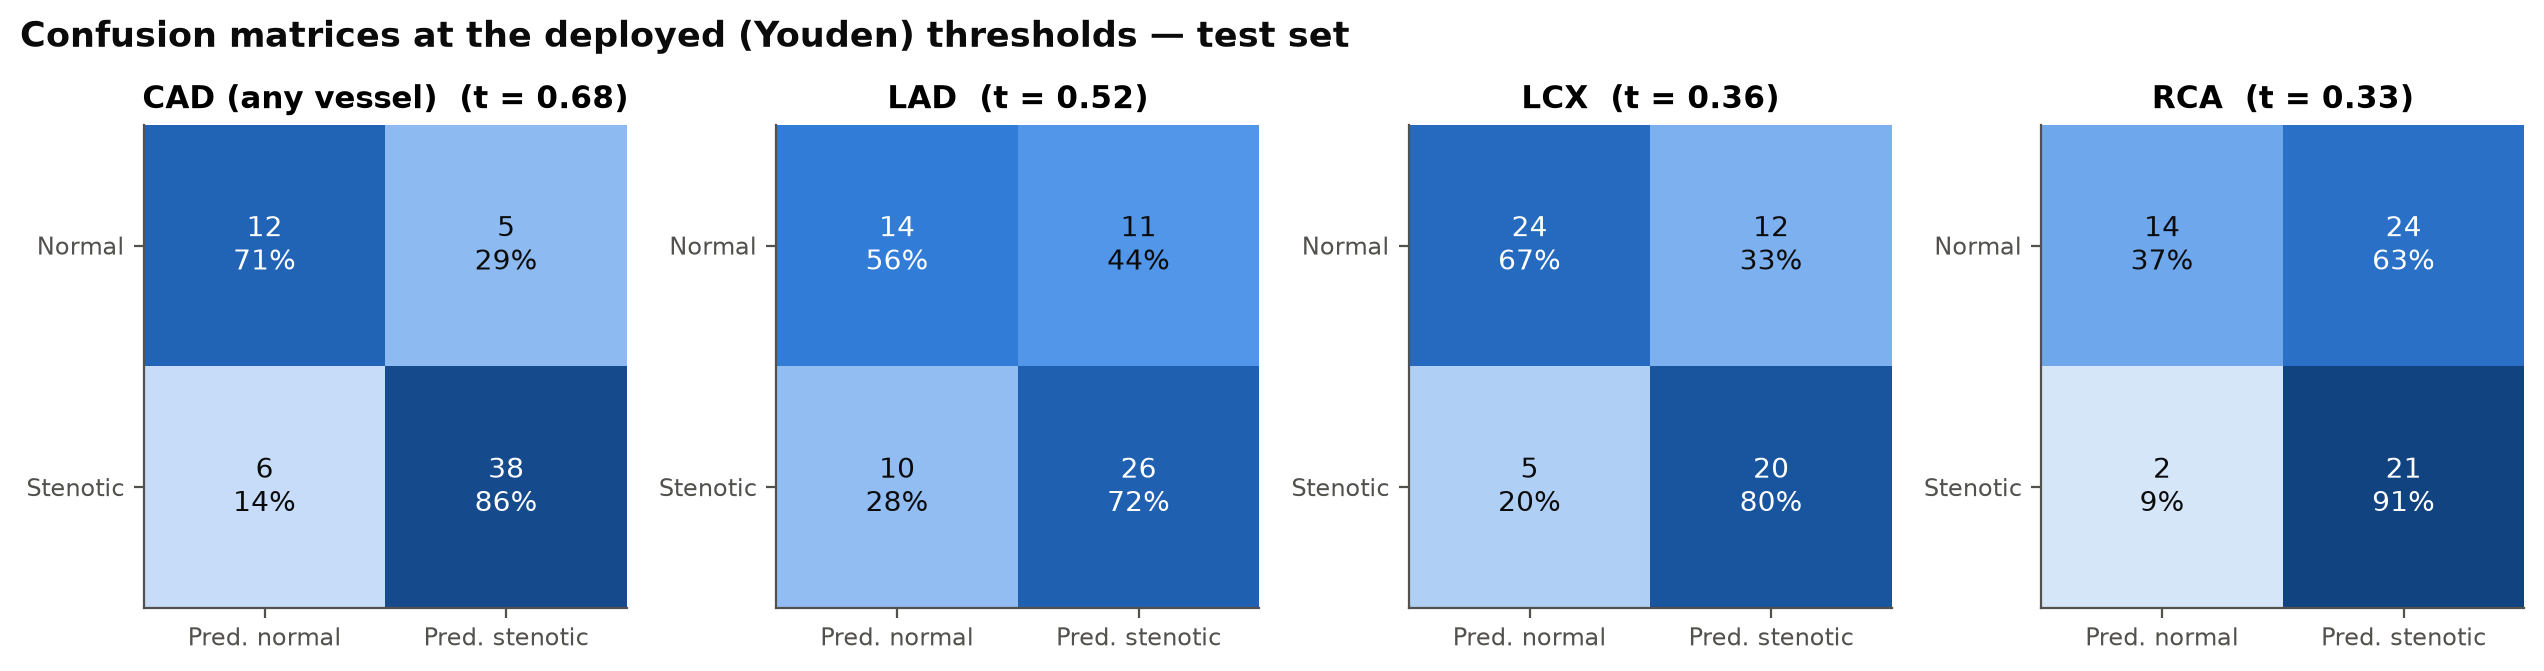
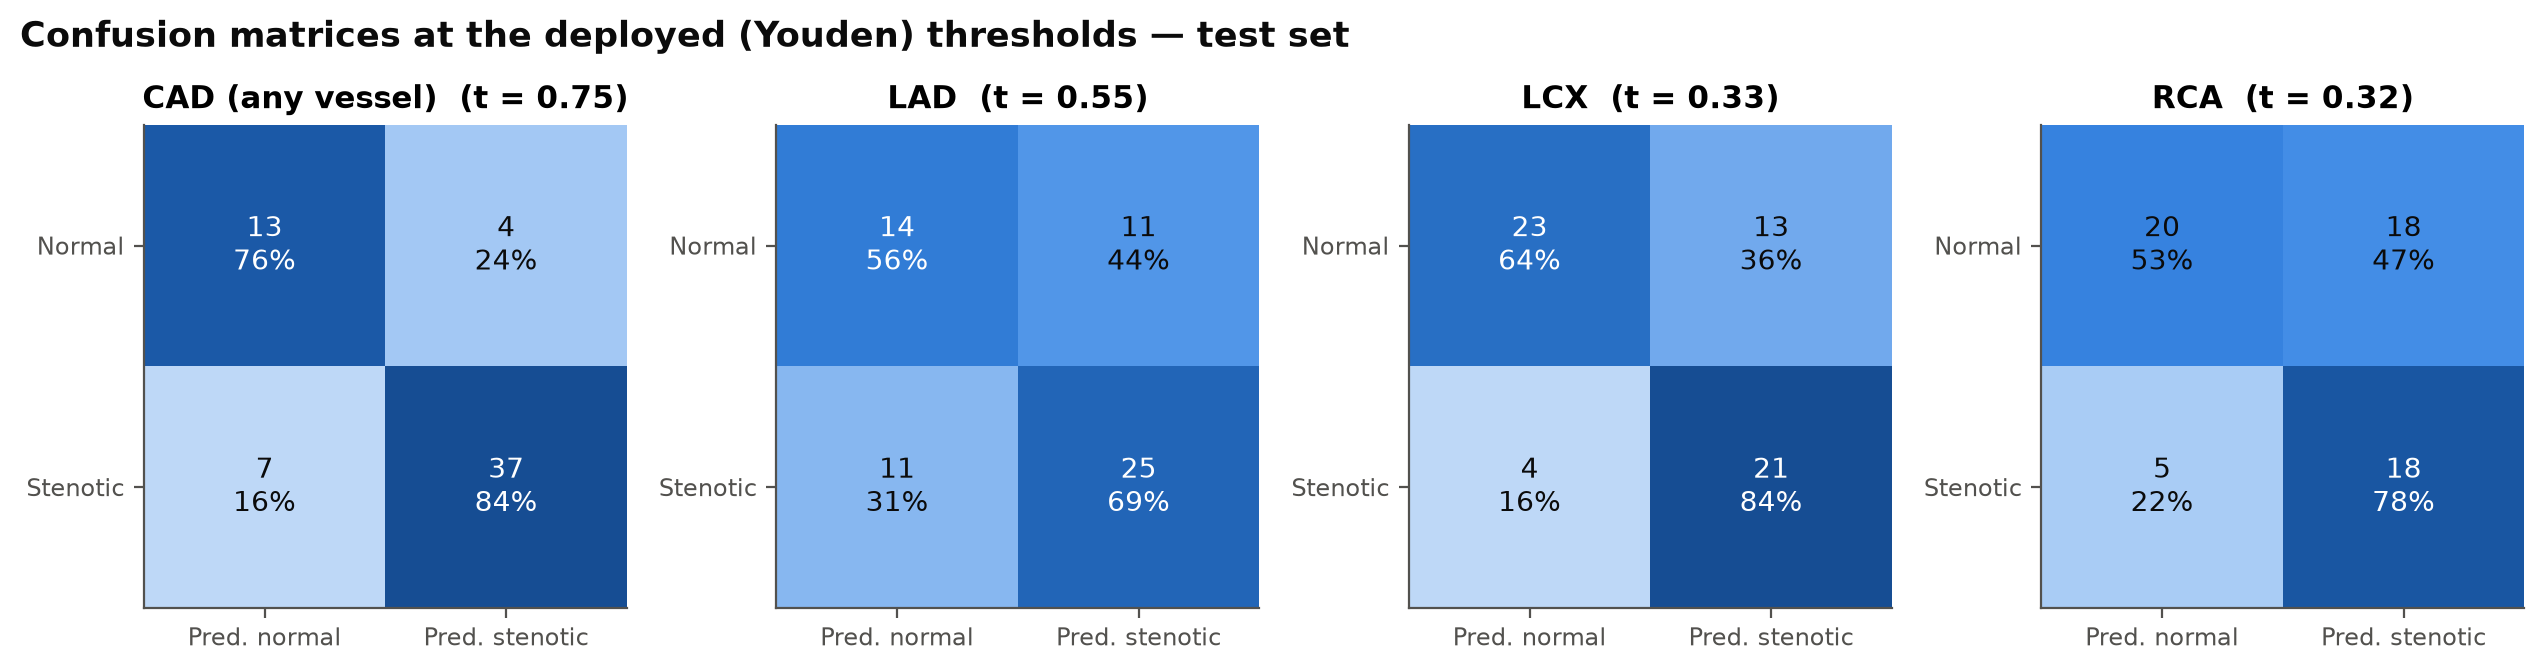
docs(ml): regenerate figures and results table for the v1.1.0 models

diff --git a/ml/reports/results.md b/ml/reports/results.md
@@ -1,24 +1,37 @@
 # CardioTwin — model results
 
-Dataset: Extension of Z-Alizadeh Sani (n = 303; development 242, locked test 61). Test metrics are point estimates with 95% stratified-bootstrap CIs (2000 resamples) at the deployed threshold (Youden's J on out-of-fold development predictions). CV = development-set repeated stratified 5-fold × 10 (mean ± sd over folds).
+Dataset: Extension of Z-Alizadeh Sani (n = 303; development 242, locked test 61). Test metrics are point estimates with 95% stratified-bootstrap CIs (2000 resamples) at the deployed threshold (Youden's J on out-of-fold development predictions). CV = development-set repeated stratified 5-fold × 10 with nested tuning (mean ± sd over folds).
 
 ## Held-out test set (deployed LR + XGBoost ensemble)
 
 | Target | ROC-AUC | PR-AUC | F1 | Sensitivity | Specificity | Accuracy | Balanced acc. | MCC | Brier |
 | --- | --- | --- | --- | --- | --- | --- | --- | --- | --- |
-| CAD | 0.858 (0.741–0.955) | 0.937 (0.883–0.984) | 0.874 (0.800–0.933) | 0.864 (0.750–0.955) | 0.706 (0.471–0.884) | 0.820 (0.721–0.902) | 0.785 (0.669–0.907) | 0.560 (0.345–0.781) | 0.126 (0.078–0.177) |
-| LAD | 0.742 (0.611–0.858) | 0.823 (0.738–0.902) | 0.712 (0.600–0.811) | 0.722 (0.583–0.861) | 0.560 (0.360–0.760) | 0.656 (0.541–0.770) | 0.641 (0.519–0.763) | 0.284 (0.039–0.526) | 0.214 (0.151–0.280) |
-| LCX | 0.808 (0.683–0.909) | 0.753 (0.618–0.892) | 0.702 (0.586–0.807) | 0.800 (0.640–0.920) | 0.667 (0.500–0.806) | 0.721 (0.607–0.836) | 0.733 (0.619–0.835) | 0.460 (0.246–0.667) | 0.182 (0.144–0.225) |
-| RCA | 0.735 (0.593–0.851) | 0.689 (0.546–0.819) | 0.618 (0.537–0.689) | 0.913 (0.783–1.000) | 0.368 (0.211–0.526) | 0.574 (0.475–0.673) | 0.641 (0.544–0.733) | 0.310 (0.103–0.484) | 0.211 (0.196–0.226) |
+| CAD | 0.858 (0.743–0.955) | 0.937 (0.884–0.983) | 0.871 (0.791–0.940) | 0.841 (0.727–0.932) | 0.765 (0.588–0.941) | 0.820 (0.721–0.918) | 0.803 (0.687–0.914) | 0.578 (0.371–0.793) | 0.123 (0.068–0.182) |
+| LAD | 0.742 (0.612–0.858) | 0.824 (0.738–0.901) | 0.694 (0.580–0.800) | 0.694 (0.556–0.833) | 0.560 (0.360–0.760) | 0.639 (0.525–0.754) | 0.627 (0.504–0.753) | 0.254 (0.008–0.514) | 0.217 (0.150–0.288) |
+| LCX | 0.814 (0.701–0.907) | 0.761 (0.634–0.888) | 0.712 (0.600–0.808) | 0.840 (0.680–0.960) | 0.639 (0.472–0.778) | 0.721 (0.607–0.820) | 0.739 (0.626–0.837) | 0.474 (0.247–0.671) | 0.177 (0.142–0.215) |
+| RCA | 0.759 (0.627–0.866) | 0.702 (0.560–0.833) | 0.610 (0.491–0.714) | 0.783 (0.609–0.913) | 0.526 (0.368–0.684) | 0.623 (0.508–0.738) | 0.654 (0.537–0.764) | 0.304 (0.073–0.513) | 0.183 (0.150–0.221) |
 
-## Development-set cross-validation (same ensemble, out-of-fold)
+## Calibration on the held-out test set
+
+Calibration slope/intercept: logistic recalibration of the test outcomes on the predicted log-odds (ideal 1 / 0); ECE over quantile bins of ~10 patients.
+
+| Target | Brier | Log-loss | Calibration slope | Calibration intercept | Calibration-in-the-large | ECE |
+| --- | --- | --- | --- | --- | --- | --- |
+| CAD | 0.123 (0.068–0.182) | 0.428 (0.236–0.635) | 0.62 | +0.07 | -0.016 | 0.079 |
+| LAD | 0.217 (0.150–0.288) | 0.653 (0.464–0.854) | 0.47 | +0.13 | -0.001 | 0.133 |
+| LCX | 0.177 (0.142–0.215) | 0.529 (0.453–0.612) | 1.47 | +0.26 | +0.018 | 0.116 |
+| RCA | 0.183 (0.150–0.221) | 0.540 (0.464–0.624) | 1.30 | +0.15 | +0.003 | 0.055 |
+
+## Development-set cross-validation (ensemble recipe, cross-fitted)
+
+For every outer fold the logistic variant, ensemble weight, Platt calibration and threshold are re-chosen on the other folds of that repeat only, so the scored fold never influences a choice (no selection optimism).
 
 | Target | ROC-AUC | PR-AUC | F1 | Sensitivity | Specificity | Accuracy | Brier |
 | --- | --- | --- | --- | --- | --- | --- | --- |
-| CAD | 0.942 ± 0.034 | 0.975 ± 0.017 | 0.920 ± 0.036 | 0.893 ± 0.053 | 0.883 ± 0.077 | 0.890 ± 0.047 | 0.085 ± 0.029 |
-| LAD | 0.872 ± 0.055 | 0.904 ± 0.046 | 0.833 ± 0.047 | 0.840 ± 0.065 | 0.755 ± 0.097 | 0.804 ± 0.055 | 0.143 ± 0.031 |
-| LCX | 0.743 ± 0.052 | 0.620 ± 0.074 | 0.641 ± 0.055 | 0.772 ± 0.091 | 0.596 ± 0.088 | 0.664 ± 0.054 | 0.202 ± 0.017 |
-| RCA | 0.738 ± 0.064 | 0.612 ± 0.079 | 0.632 ± 0.060 | 0.806 ± 0.102 | 0.554 ± 0.096 | 0.648 ± 0.061 | 0.204 ± 0.020 |
+| CAD | 0.937 ± 0.034 | 0.972 ± 0.018 | 0.900 ± 0.047 | 0.860 ± 0.072 | 0.881 ± 0.095 | 0.866 ± 0.057 | 0.091 ± 0.028 |
+| LAD | 0.867 ± 0.057 | 0.899 ± 0.050 | 0.824 ± 0.054 | 0.835 ± 0.088 | 0.736 ± 0.131 | 0.794 ± 0.061 | 0.150 ± 0.034 |
+| LCX | 0.738 ± 0.053 | 0.609 ± 0.076 | 0.628 ± 0.056 | 0.755 ± 0.128 | 0.591 ± 0.128 | 0.655 ± 0.056 | 0.205 ± 0.017 |
+| RCA | 0.727 ± 0.071 | 0.601 ± 0.087 | 0.605 ± 0.086 | 0.757 ± 0.156 | 0.565 ± 0.113 | 0.637 ± 0.063 | 0.210 ± 0.029 |
 
 ## What the full panel adds over a clinical baseline (test set)
 
@@ -26,10 +39,10 @@ Baseline = logistic regression on age, sex, typical angina, diabetes and hyperte
 
 | Target | Full model ROC-AUC | Baseline ROC-AUC | Δ ROC-AUC (paired bootstrap 95% CI) |
 | --- | --- | --- | --- |
-| CAD | 0.858 (0.741–0.955) | 0.823 (0.691–0.941) | +0.035 (-0.023 to +0.100) |
-| LAD | 0.742 (0.611–0.858) | 0.736 (0.597–0.862) | +0.006 (-0.077 to +0.092) |
-| LCX | 0.808 (0.683–0.909) | 0.805 (0.693–0.903) | +0.003 (-0.074 to +0.074) |
-| RCA | 0.735 (0.593–0.851) | 0.746 (0.612–0.860) | -0.011 (-0.122 to +0.096) |
+| CAD | 0.858 (0.743–0.955) | 0.822 (0.688–0.943) | +0.037 (-0.023 to +0.100) |
+| LAD | 0.742 (0.612–0.858) | 0.743 (0.608–0.866) | -0.001 (-0.082 to +0.087) |
+| LCX | 0.814 (0.701–0.907) | 0.805 (0.693–0.903) | +0.009 (-0.043 to +0.057) |
+| RCA | 0.759 (0.627–0.866) | 0.744 (0.606–0.858) | +0.015 (-0.023 to +0.054) |
 
 ## Cross-validation leaderboard (top 5 by ROC-AUC per target)
 
@@ -37,50 +50,55 @@ Baseline = logistic regression on age, sex, typical angina, diabetes and hyperte
 
 | Rank | Model | CV ROC-AUC | CV F1 @ 0.5 | CV Brier |
 | --- | --- | --- | --- | --- |
-| 1 | LR (lr_l2) + XGBoost margin ensemble, Platt-calibrated | 0.942 ± 0.034 | 0.917 | 0.085 |
-| 2 | Random forest | 0.937 ± 0.037 | 0.914 | 0.107 |
-| 3 | Logistic regression (L2) | 0.935 ± 0.034 | 0.881 | 0.121 |
-| 4 | Extra trees | 0.935 ± 0.039 | 0.919 | 0.097 |
-| 5 | XGBoost | 0.931 ± 0.037 | 0.907 | 0.095 |
+| 1 | Random forest | 0.937 ± 0.037 | 0.914 | 0.107 |
+| 2 | LR (lr_elasticnet) + XGBoost margin ensemble, Platt-calibrated | 0.937 ± 0.034 | 0.913 | 0.091 |
+| 3 | Extra trees | 0.935 ± 0.039 | 0.919 | 0.097 |
+| 4 | XGBoost | 0.929 ± 0.036 | 0.910 | 0.095 |
+| 5 | Logistic regression (elastic net) | 0.929 ± 0.037 | 0.908 | 0.096 |
 
 **LAD**
 
 | Rank | Model | CV ROC-AUC | CV F1 @ 0.5 | CV Brier |
 | --- | --- | --- | --- | --- |
-| 1 | LR (lr_l1) + XGBoost margin ensemble, Platt-calibrated | 0.872 ± 0.055 | 0.835 | 0.143 |
+| 1 | LR (lr_l1) + XGBoost margin ensemble, Platt-calibrated | 0.867 ± 0.057 | 0.829 | 0.150 |
 | 2 | Random forest | 0.866 ± 0.053 | 0.830 | 0.158 |
-| 3 | XGBoost | 0.865 ± 0.058 | 0.842 | 0.147 |
-| 4 | Logistic regression (L1) | 0.860 ± 0.055 | 0.812 | 0.154 |
-| 5 | Logistic regression (elastic net) | 0.856 ± 0.061 | 0.813 | 0.163 |
+| 3 | XGBoost | 0.863 ± 0.059 | 0.838 | 0.148 |
+| 4 | Logistic regression (L1) | 0.857 ± 0.057 | 0.811 | 0.156 |
+| 5 | Extra trees | 0.855 ± 0.058 | 0.836 | 0.153 |
 
 **LCX**
 
 | Rank | Model | CV ROC-AUC | CV F1 @ 0.5 | CV Brier |
 | --- | --- | --- | --- | --- |
-| 1 | LR (lr_core) + XGBoost margin ensemble, Platt-calibrated | 0.743 ± 0.052 | 0.525 | 0.202 |
+| 1 | LR (lr_core) + XGBoost margin ensemble, Platt-calibrated | 0.738 ± 0.053 | 0.533 | 0.205 |
 | 2 | Random forest | 0.731 ± 0.056 | 0.419 | 0.207 |
-| 3 | Histogram gradient boosting | 0.727 ± 0.058 | 0.519 | 0.224 |
-| 4 | Logistic regression (clinical core) | 0.726 ± 0.047 | 0.376 | 0.213 |
-| 5 | XGBoost | 0.723 ± 0.058 | 0.511 | 0.218 |
+| 3 | Logistic regression (clinical core) | 0.728 ± 0.047 | 0.506 | 0.205 |
+| 4 | Histogram gradient boosting | 0.727 ± 0.058 | 0.519 | 0.224 |
+| 5 | XGBoost | 0.721 ± 0.054 | 0.491 | 0.211 |
 
 **RCA**
 
 | Rank | Model | CV ROC-AUC | CV F1 @ 0.5 | CV Brier |
 | --- | --- | --- | --- | --- |
-| 1 | LR (lr_core) + XGBoost margin ensemble, Platt-calibrated | 0.738 ± 0.064 | 0.436 | 0.204 |
-| 2 | Logistic regression (clinical core) | 0.733 ± 0.070 | 0.357 | 0.210 |
-| 3 | Logistic regression (L2) | 0.725 ± 0.063 | 0.122 | 0.222 |
-| 4 | Extra trees | 0.713 ± 0.067 | 0.437 | 0.207 |
-| 5 | Logistic regression (L1) | 0.706 ± 0.071 | 0.494 | 0.222 |
+| 1 | Logistic regression (clinical core) | 0.736 ± 0.070 | 0.497 | 0.201 |
+| 2 | LR (lr_core) + XGBoost margin ensemble, Platt-calibrated | 0.727 ± 0.071 | 0.467 | 0.210 |
+| 3 | Logistic regression (L2) | 0.723 ± 0.063 | 0.457 | 0.207 |
+| 4 | Logistic regression (elastic net) | 0.720 ± 0.066 | 0.461 | 0.209 |
+| 5 | Logistic regression (L1) | 0.720 ± 0.067 | 0.505 | 0.209 |
 
 ## Deployed configuration
 
 | Target | Logistic variant | w (LR) | Platt a, b | Threshold (Youden) | Threshold (F1) | Top-3 features (mean \|SHAP\|) |
 | --- | --- | --- | --- | --- | --- | --- |
-| CAD | lr_l2 | 0.60 | 1.845, -0.611 | 0.685 | 0.582 | Typical Chest Pain, Age, EF-TTE |
-| LAD | lr_l1 | 0.60 | 1.236, 0.098 | 0.525 | 0.450 | Typical Chest Pain, Region RWMA, Age |
-| LCX | lr_core | 0.60 | 0.917, 0.048 | 0.356 | 0.295 | Typical Chest Pain, Age, Sex |
-| RCA | lr_core | 0.75 | 0.960, 0.025 | 0.330 | 0.306 | Typical Chest Pain, Age, ESR |
+| CAD | lr_elasticnet | 0.40 | 1.284, -0.207 | 0.747 | 0.501 | Typical Chest Pain, Age, Region RWMA |
+| LAD | lr_l1 | 0.55 | 1.278, 0.080 | 0.551 | 0.427 | Typical Chest Pain, Region RWMA, Age |
+| LCX | lr_core | 0.60 | 1.063, 0.048 | 0.327 | 0.325 | Typical Chest Pain, Age, Sex |
+| RCA | lr_core | 0.70 | 1.026, 0.026 | 0.318 | 0.265 | Typical Chest Pain, DM, Sex |
+
+## Use of the locked test set
+
+* **1.0.0** — First and only evaluation of the v1.0.0 models.
+* **1.1.0** — Re-scored after an independent code review found a calibration defect (Platt scaling, ensemble weight and thresholds had been fitted on out-of-fold margins of differently tuned fold models, so the map did not match the scale of the deployed components). The same review switched hyper-parameter tuning from ROC-AUC to log-loss (a proper scoring rule; ROC-AUC tuning had driven C to the edge of its range). Both changes and the cross-fitted CV estimate were specified and checked on the development set only; no feature, model family, search space or selection rule was changed in response to test results.
 
 ## Ablations (development CV, paired folds)
 
@@ -90,4 +108,4 @@ Baseline = logistic regression on age, sex, typical angina, diabetes and hyperte
 | selection | -0.0065 | no |
 | chain | +0.0015 | no |
 
-_Generated from `ml/artifacts/metrics.json` (2026-09-30T04:13:46+00:00)._
+_Generated from `ml/artifacts/metrics.json` (2026-09-30T05:48:46+00:00)._
